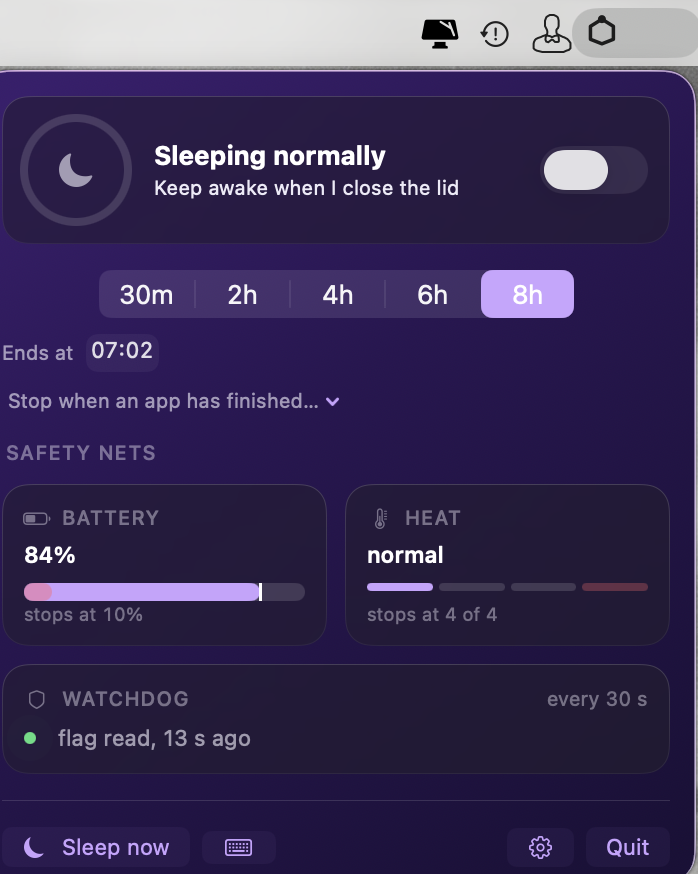
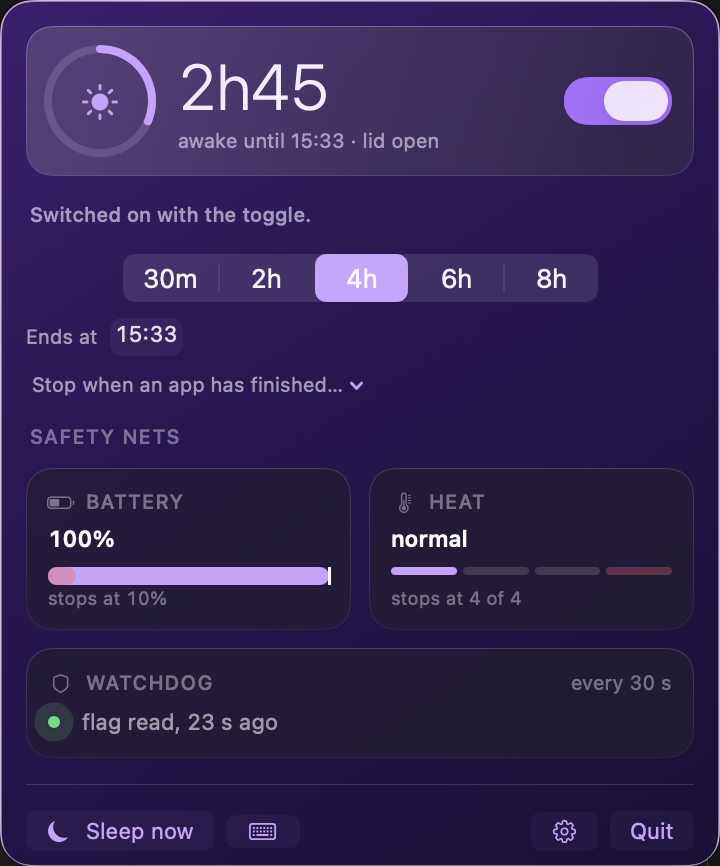
Vervang de schermafdruk door een met een lopende sessie
De eerste toonde de rusttoestand: wat de app zegt als er niets loopt. Dat
klopt, maar het laat vooral zien wat er níet gebeurt. Deze toont de aftelling,
de eindtijd, de klepstand en de drie vangnetten in één beeld — dat is wat de
app doet.

Ook een echte opname en geen laagafdruk, dus de segmentkiezer, de schakelaar
en de knoppen staan er naar waarheid op. Dat kon eerder niet: schermopname was
niet toegestaan voor deze sessie, en CALayer.render(in:) tekent geen
achtergrondfilters.

diff --git a/README.md b/README.md
@@ -11,7 +11,7 @@ display, and switching the keyboard backlight. Built as personal tooling for one
 written on that assumption — there is no installer, no automatic update, and it has been
 tested on one machine.
 
-![The menu bar panel: the state at the top, the session length below it, and the three safety nets as tiles — battery, heat, and the watchdog that keeps looking every 30 seconds.](docs/paneel.png)
+![The menu bar panel during a session: the countdown at the top with the time it ends and the lid state, the session length below it, and the three safety nets as tiles — battery, heat, and the watchdog that keeps looking every 30 seconds.](docs/paneel.png)
 
 Available in **Dutch, English, German and French**. The app follows the macOS language order
 and falls back to Dutch when none of the four is present. Translations live in
@@ -910,7 +910,7 @@ extern scherm, en de toetsenbordverlichting schakelen. Gebouwd als persoonlijk g
 voor één Mac, en met die aanname geschreven — er is geen installer, geen automatische
 update, en getest is er op één machine.
 
-![Het menubalkpaneel: bovenaan de toestand, daaronder de sessieduur, en de drie vangnetten als tegels — accu, warmte, en de wachter die elke 30 seconden blijft kijken.](docs/paneel.png)
+![Het menubalkpaneel tijdens een sessie: bovenaan de aftelling met de eindtijd en de klepstand, daaronder de sessieduur, en de drie vangnetten als tegels — accu, warmte, en de wachter die elke 30 seconden blijft kijken.](docs/paneel.png)
 
 Beschikbaar in het **Nederlands, Engels, Duits en Frans**. De app volgt de taalvolgorde van
 macOS en valt terug op Nederlands als er geen van de vier bij zit. De vertalingen staan in
